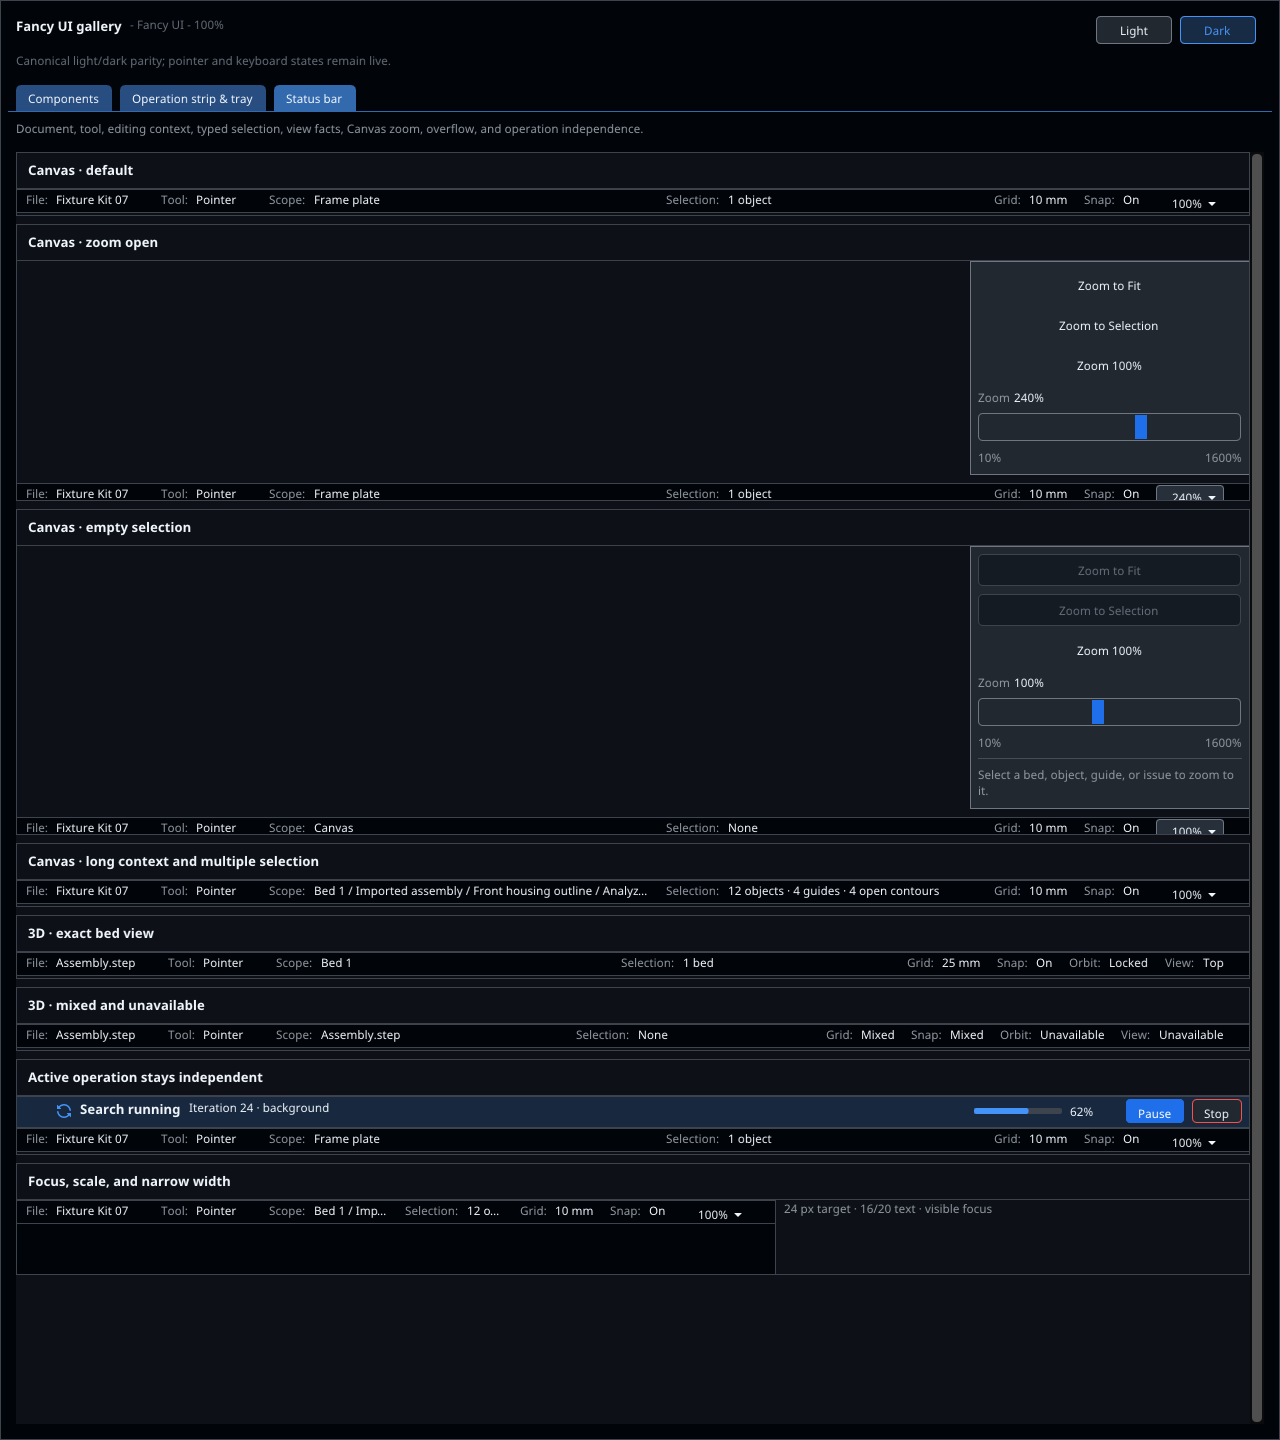
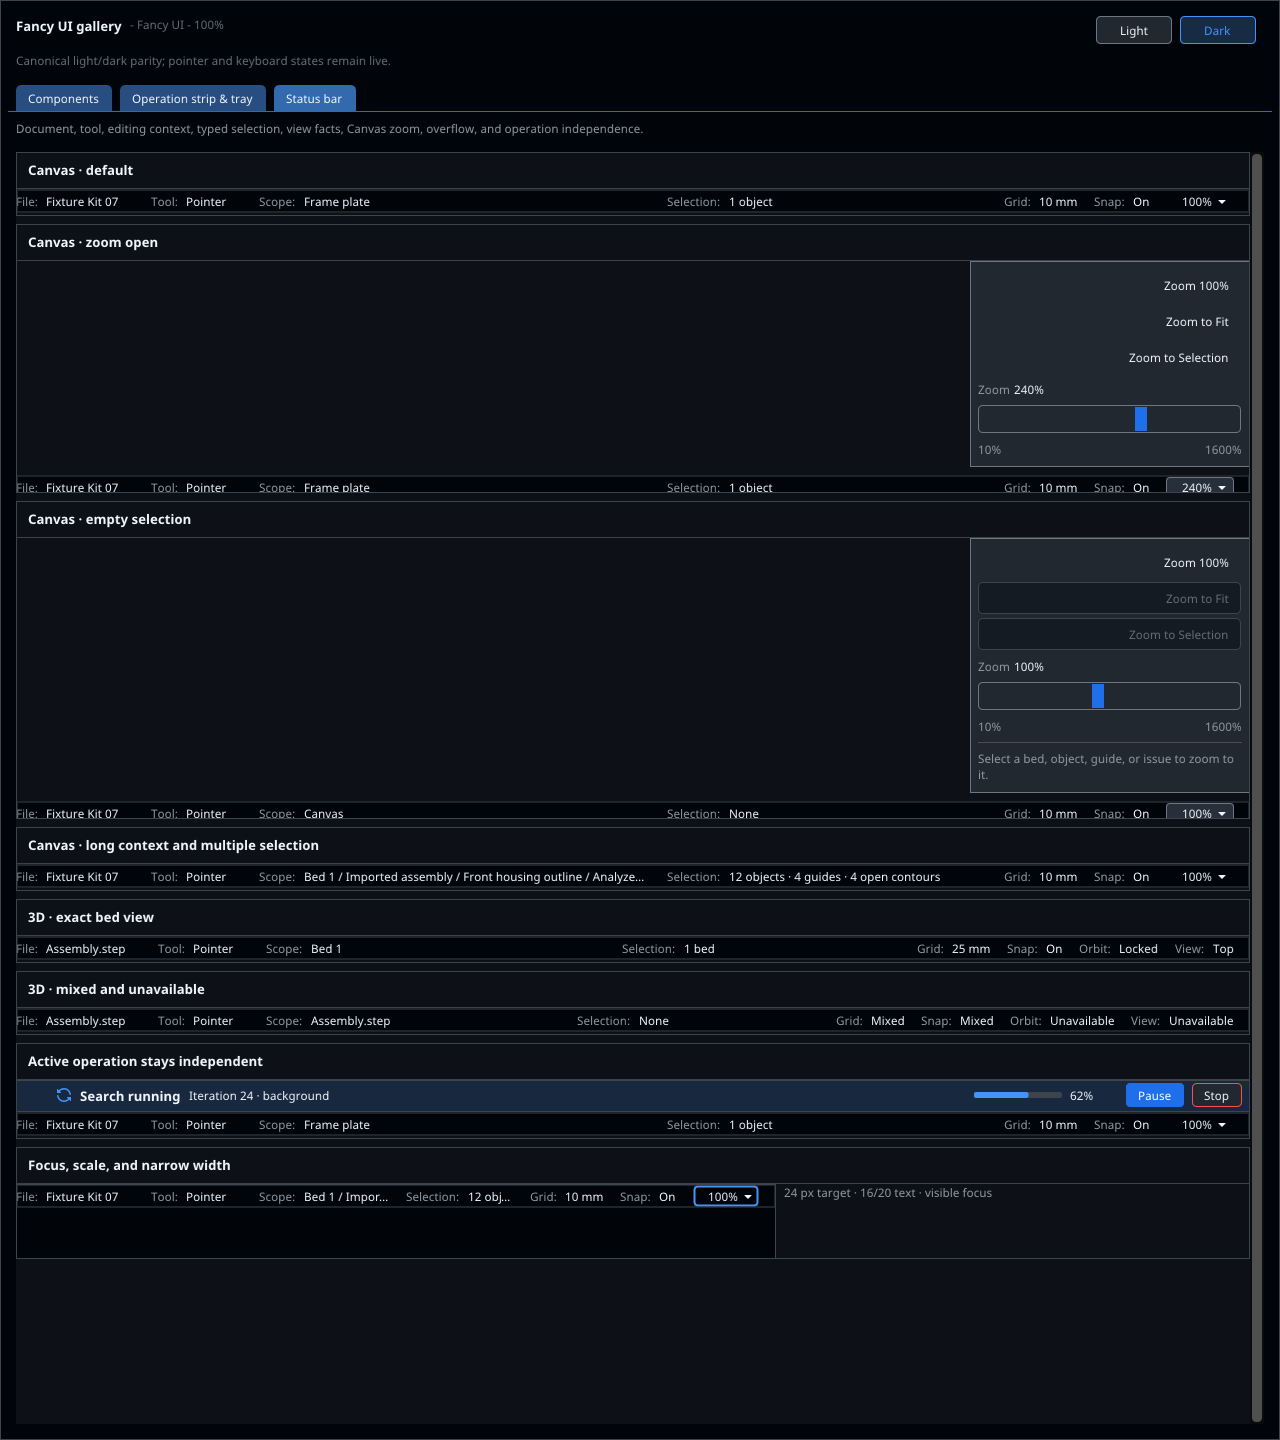
Refine Fancy UI status zoom controls
Center status facts, zoom text, and the disclosure icon within the full 24 px status row. Keep the zoom interaction target inside the row while insetting its visual treatment and focus ring so the bottom edge is not clipped.

Move Zoom 100% to the top of the zoom panel, right-align all command labels, and use 4 px gaps only within the command group. Preserve 32 px command targets, 8 px outer and slider spacing, stable command IDs, and the shared button alignment default.

Regenerate the light and dark status gallery references for the updated layout.

diff --git a/tools/component_gallery/gallery_region_states.cpp b/tools/component_gallery/gallery_region_states.cpp
@@ -775,21 +775,43 @@ float FactWidth(const std::string_view label, const std::string_view value) {
          ImGui::CalcTextSize(value.data(), value.data() + value.size()).x;
 }
 
+float CenteredContentY(const float minimum_y, const float height,
+                       const float content_height) {
+  return std::floor(minimum_y + std::max(0.0f, height - content_height) * 0.5f);
+}
+
+void DrawContainedFocusRing(const InteractionResult &interaction,
+                            const ImVec2 minimum, const ImVec2 maximum,
+                            const bool force_focus) {
+  if (!force_focus && (!interaction.focused || !ImGui::GetIO().NavVisible)) {
+    return;
+  }
+  const float inset = Scale(2.0f);
+  ImGui::GetWindowDrawList()->AddRect(
+      ImVec2(minimum.x + inset, minimum.y + inset),
+      ImVec2(maximum.x - inset, maximum.y - inset),
+      ImGui::GetColorU32(ToImVec4(CurrentPalette().focus)), Scale(3.0f),
+      ImDrawFlags_RoundCornersAll, Scale(2.0f));
+}
+
 void DrawFact(const std::string_view label, const std::string_view value,
               const float width) {
-  const float height = Scale(20.0f);
+  const float height = Scale(kStatusBarHeight);
   const float gap = Scale(kStatusFactLabelGap);
   const ImVec2 minimum = ImGui::GetCursorScreenPos();
   ImGui::Dummy(ImVec2(std::max(0.0f, width), height));
   const ImVec2 maximum = ImGui::GetItemRectMax();
   const std::string label_text = std::format("{}:", std::string(label));
   const ImVec2 label_size = ImGui::CalcTextSize(label_text.c_str());
-  ImGui::GetWindowDrawList()->AddText(
-      minimum, ImGui::GetColorU32(ToImVec4(CurrentPalette().text_secondary)),
-      label_text.c_str());
-  const ImVec2 value_minimum(minimum.x + label_size.x + gap, minimum.y);
   const ImVec2 value_size =
       ImGui::CalcTextSize(value.data(), value.data() + value.size());
+  const float text_y =
+      CenteredContentY(minimum.y, height, std::max(label_size.y, value_size.y));
+  ImGui::GetWindowDrawList()->AddText(
+      ImVec2(minimum.x, text_y),
+      ImGui::GetColorU32(ToImVec4(CurrentPalette().text_secondary)),
+      label_text.c_str());
+  const ImVec2 value_minimum(minimum.x + label_size.x + gap, text_y);
   if (value_minimum.x < maximum.x) {
     ImGui::PushStyleColor(ImGuiCol_Text,
                           ToImVec4(CurrentPalette().text_primary));
@@ -830,15 +852,16 @@ StatusBarResult DrawStatusBar(detail::UiAssetAtlas &assets,
 
   ImGui::PushStyleColor(ImGuiCol_ChildBg,
                         ToImVec4(CurrentPalette().application_surface));
-  ImGui::PushStyleColor(ImGuiCol_Border, ToImVec4(CurrentPalette().border));
-  ImGui::PushStyleVar(ImGuiStyleVar_WindowPadding,
-                      ImVec2(Scale(10.0f), Scale(1.0f)));
+  ImGui::PushStyleVar(ImGuiStyleVar_WindowPadding, ImVec2(Scale(10.0f), 0.0f));
   ImGui::PushStyleVar(ImGuiStyleVar_ItemSpacing, ImVec2(gap, 0.0f));
   if (ImGui::BeginChild(
-          "##status-bar", ImVec2(0.0f, bar_height), ImGuiChildFlags_Borders,
+          "##status-bar", ImVec2(0.0f, bar_height), ImGuiChildFlags_None,
           ImGuiWindowFlags_NoScrollbar | ImGuiWindowFlags_NoScrollWithMouse)) {
-    ImGui::PushStyleVar(ImGuiStyleVar_CellPadding,
-                        ImVec2(cell_padding, Scale(1.0f)));
+    const ImVec2 bar_minimum = ImGui::GetWindowPos();
+    const ImVec2 bar_size = ImGui::GetWindowSize();
+    const ImVec2 bar_maximum(bar_minimum.x + bar_size.x,
+                             bar_minimum.y + bar_size.y);
+    ImGui::PushStyleVar(ImGuiStyleVar_CellPadding, ImVec2(cell_padding, 0.0f));
     if (ImGui::BeginTable("##status-facts", 5,
                           ImGuiTableFlags_SizingStretchProp |
                               ImGuiTableFlags_NoPadOuterX |
@@ -854,7 +877,7 @@ StatusBarResult DrawStatusBar(detail::UiAssetAtlas &assets,
                               0.9f);
       ImGui::TableSetupColumn("View", ImGuiTableColumnFlags_WidthFixed,
                               right_width);
-      ImGui::TableNextRow(ImGuiTableRowFlags_None, Scale(20.0f));
+      ImGui::TableNextRow(ImGuiTableRowFlags_None, bar_height);
       ImGui::TableSetColumnIndex(0);
       DrawFact("File", sample.file, ImGui::GetContentRegionAvail().x);
       ImGui::TableSetColumnIndex(1);
@@ -886,13 +909,18 @@ StatusBarResult DrawStatusBar(detail::UiAssetAtlas &assets,
           const ColorRgba fill = interaction.active
                                      ? CurrentPalette().control_pressed
                                      : CurrentPalette().control_hover;
-          draw_list->AddRectFilled(result.zoom_minimum, result.zoom_maximum,
+          const float visual_inset_y = Scale(2.0f);
+          const ImVec2 visual_minimum(result.zoom_minimum.x,
+                                      result.zoom_minimum.y + visual_inset_y);
+          const ImVec2 visual_maximum(result.zoom_maximum.x,
+                                      result.zoom_maximum.y - visual_inset_y);
+          draw_list->AddRectFilled(visual_minimum, visual_maximum,
                                    ImGui::GetColorU32(ToImVec4(fill)),
                                    Scale(3.0f));
           draw_list->AddRect(
-              result.zoom_minimum, result.zoom_maximum,
+              visual_minimum, visual_maximum,
               ImGui::GetColorU32(ToImVec4(CurrentPalette().border_strong)),
-              Scale(3.0f));
+              Scale(3.0f), ImDrawFlags_RoundCornersAll, Scale(1.0f));
         }
         const std::string percent =
             std::format("{:.0f}%", std::round(zoom.percent));
@@ -901,27 +929,23 @@ StatusBarResult DrawStatusBar(detail::UiAssetAtlas &assets,
         const float content_width = text_size.x + Scale(2.0f) + icon_size;
         const float content_x =
             result.zoom_maximum.x - Scale(4.0f) - content_width;
-        const float content_y = std::floor(
-            (result.zoom_minimum.y + result.zoom_maximum.y - text_size.y) *
-            0.5f);
+        const float content_y =
+            CenteredContentY(result.zoom_minimum.y, target.y, text_size.y);
         draw_list->AddText(
             ImVec2(content_x, content_y),
             ImGui::GetColorU32(ToImVec4(CurrentPalette().text_primary)),
             percent.c_str());
+        const float icon_y =
+            CenteredContentY(result.zoom_minimum.y, target.y, icon_size);
         static_cast<void>(assets.DrawIcon(
             "triangle-down", steppenface::UiIconSize::Small16,
             {.minimum = {.x = content_x + text_size.x + Scale(2.0f),
-                         .y = result.zoom_minimum.y + Scale(4.0f)},
+                         .y = icon_y},
              .maximum = {.x = content_x + text_size.x + Scale(2.0f) + icon_size,
-                         .y = result.zoom_minimum.y + Scale(4.0f) + icon_size}},
+                         .y = icon_y + icon_size}},
             CurrentPalette().text_primary));
-        if (force_focus) {
-          InteractionResult focused = interaction;
-          focused.focused = true;
-          detail::DrawFocusRing(focused);
-        } else {
-          detail::DrawFocusRing(interaction);
-        }
+        DrawContainedFocusRing(interaction, result.zoom_minimum,
+                               result.zoom_maximum, force_focus);
         if (interaction.hovered ||
             (interaction.focused && ImGui::GetIO().NavVisible)) {
           ImGui::SetTooltip("Canvas zoom controls");
@@ -936,10 +960,16 @@ StatusBarResult DrawStatusBar(detail::UiAssetAtlas &assets,
       ImGui::EndTable();
     }
     ImGui::PopStyleVar();
+    const float border_inset = Scale(0.5f);
+    ImGui::GetWindowDrawList()->AddRect(
+        ImVec2(bar_minimum.x + border_inset, bar_minimum.y + border_inset),
+        ImVec2(bar_maximum.x - border_inset, bar_maximum.y - border_inset),
+        ImGui::GetColorU32(ToImVec4(CurrentPalette().border)), 0.0f,
+        ImDrawFlags_None, Scale(1.0f));
   }
   ImGui::EndChild();
   ImGui::PopStyleVar(2);
-  ImGui::PopStyleColor(2);
+  ImGui::PopStyleColor();
   return result;
 }
 
@@ -947,9 +977,11 @@ ImVec2 ZoomPanelSize(const StatusSample &sample) {
   const float width = std::min(Scale(280.0f), ImGui::GetContentRegionAvail().x);
   const float padding = Scale(kStatusZoomPanelPadding);
   const float spacing = Scale(kStatusZoomPanelItemSpacing);
+  const float command_spacing = Scale(kStatusZoomCommandSpacing);
   const float command_height = Scale(kStatusZoomCommandHeight);
   const float text_height = ImGui::GetTextLineHeight();
-  float height = padding * 2.0f + command_height * 3.0f + spacing * 2.0f;
+  float height =
+      padding * 2.0f + command_height * 3.0f + command_spacing * 2.0f;
   height += spacing + text_height;
   height += spacing + ImGui::GetFrameHeight();
   height += spacing + text_height;
@@ -1005,11 +1037,17 @@ void DrawZoomPanel(const StatusSample &sample,
         zoom.request_focus = true;
       }
     };
+    ImGui::BeginGroup();
+    ImGui::PushStyleVar(ImGuiStyleVar_ItemSpacing,
+                        ImVec2(Scale(4.0f), Scale(kStatusZoomCommandSpacing)));
+    ImGui::PushStyleVar(ImGuiStyleVar_ButtonTextAlign, ImVec2(1.0f, 0.5f));
+    command("zoom-100", "Zoom 100%", true, {});
     command("zoom-fit", "Zoom to Fit", sample.can_fit,
             "No spatial content is available to fit.");
     command("zoom-selection", "Zoom to Selection", sample.can_fit_selection,
             sample.selection_disabled_reason);
-    command("zoom-100", "Zoom 100%", true, {});
+    ImGui::PopStyleVar(2);
+    ImGui::EndGroup();
     DrawSecondaryText("Zoom");
     ImGui::SameLine();
     ImGui::Text("%.0f%%", zoom.percent);

diff --git a/tools/component_gallery/gallery_state_model.hpp b/tools/component_gallery/gallery_state_model.hpp
@@ -49,6 +49,7 @@ inline constexpr float kStatusFactLabelGap = 8.0f;
 inline constexpr float kStatusFactGroupGap = 16.0f;
 inline constexpr float kStatusFactCellPadding = 8.0f;
 inline constexpr float kStatusZoomCommandHeight = 32.0f;
+inline constexpr float kStatusZoomCommandSpacing = 4.0f;
 inline constexpr float kStatusZoomPanelPadding = 8.0f;
 inline constexpr float kStatusZoomPanelItemSpacing = 8.0f;
 inline constexpr float kStatusZoomMinimumPercent = 10.0f;
